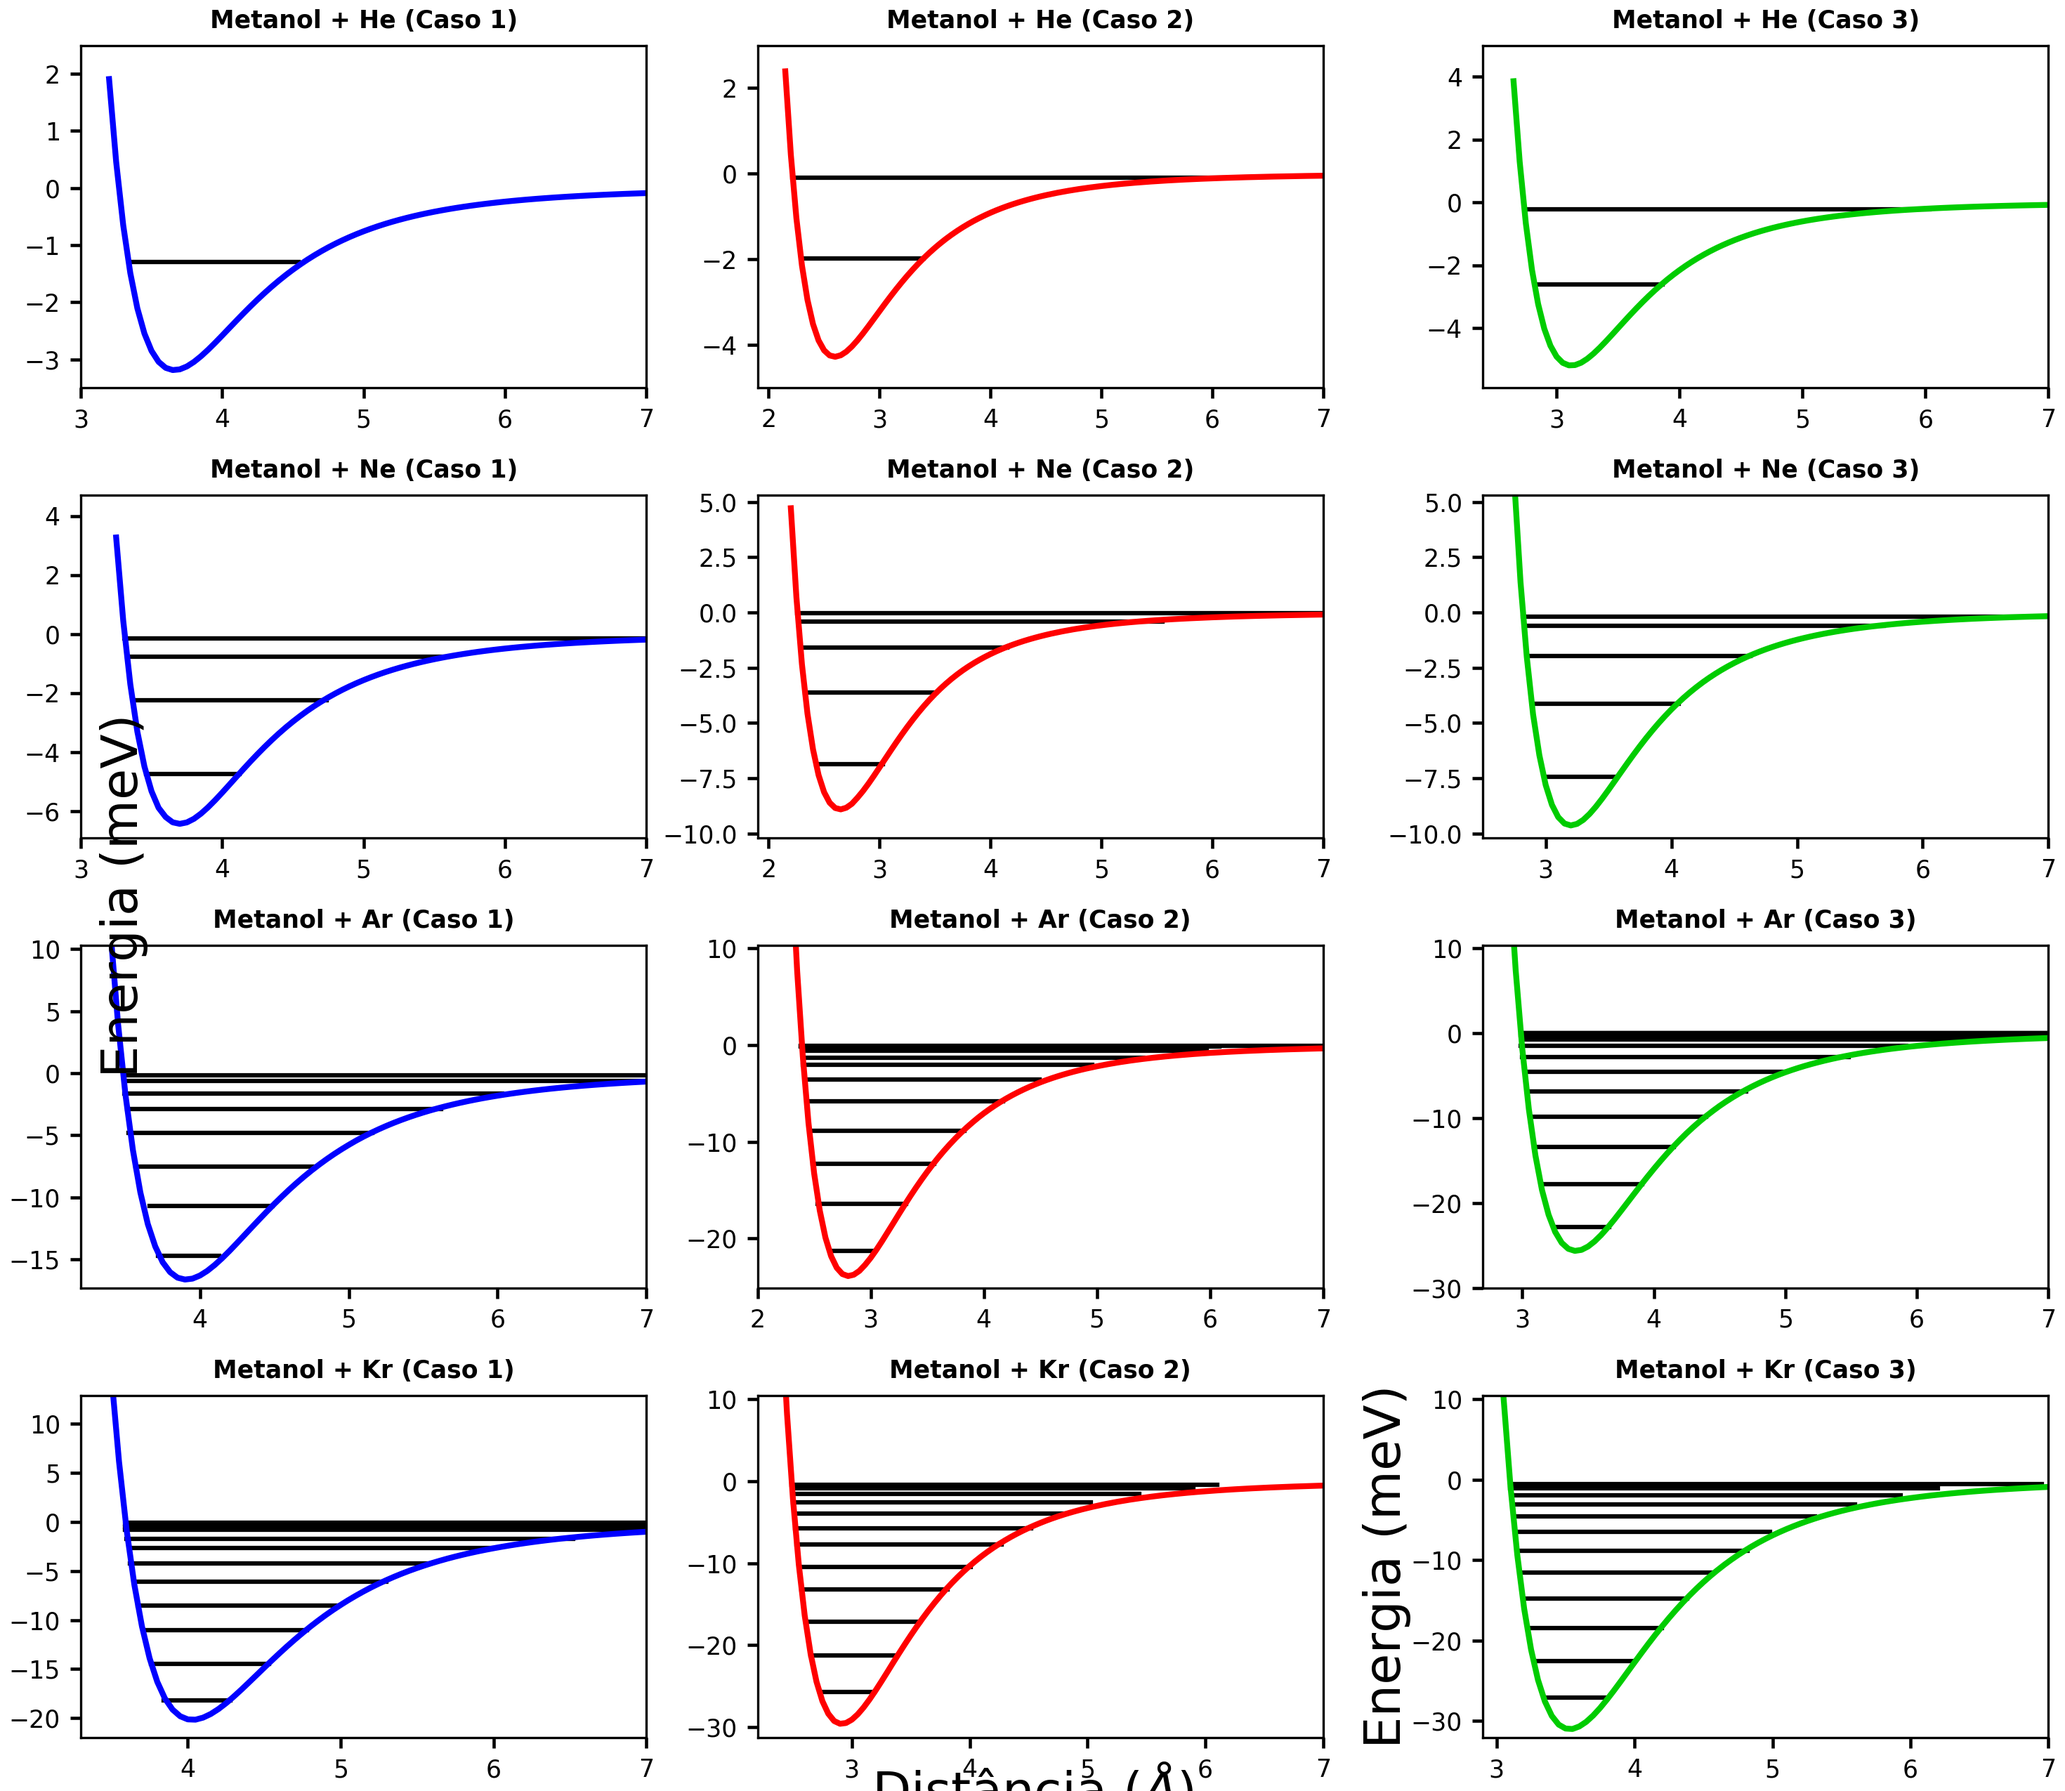
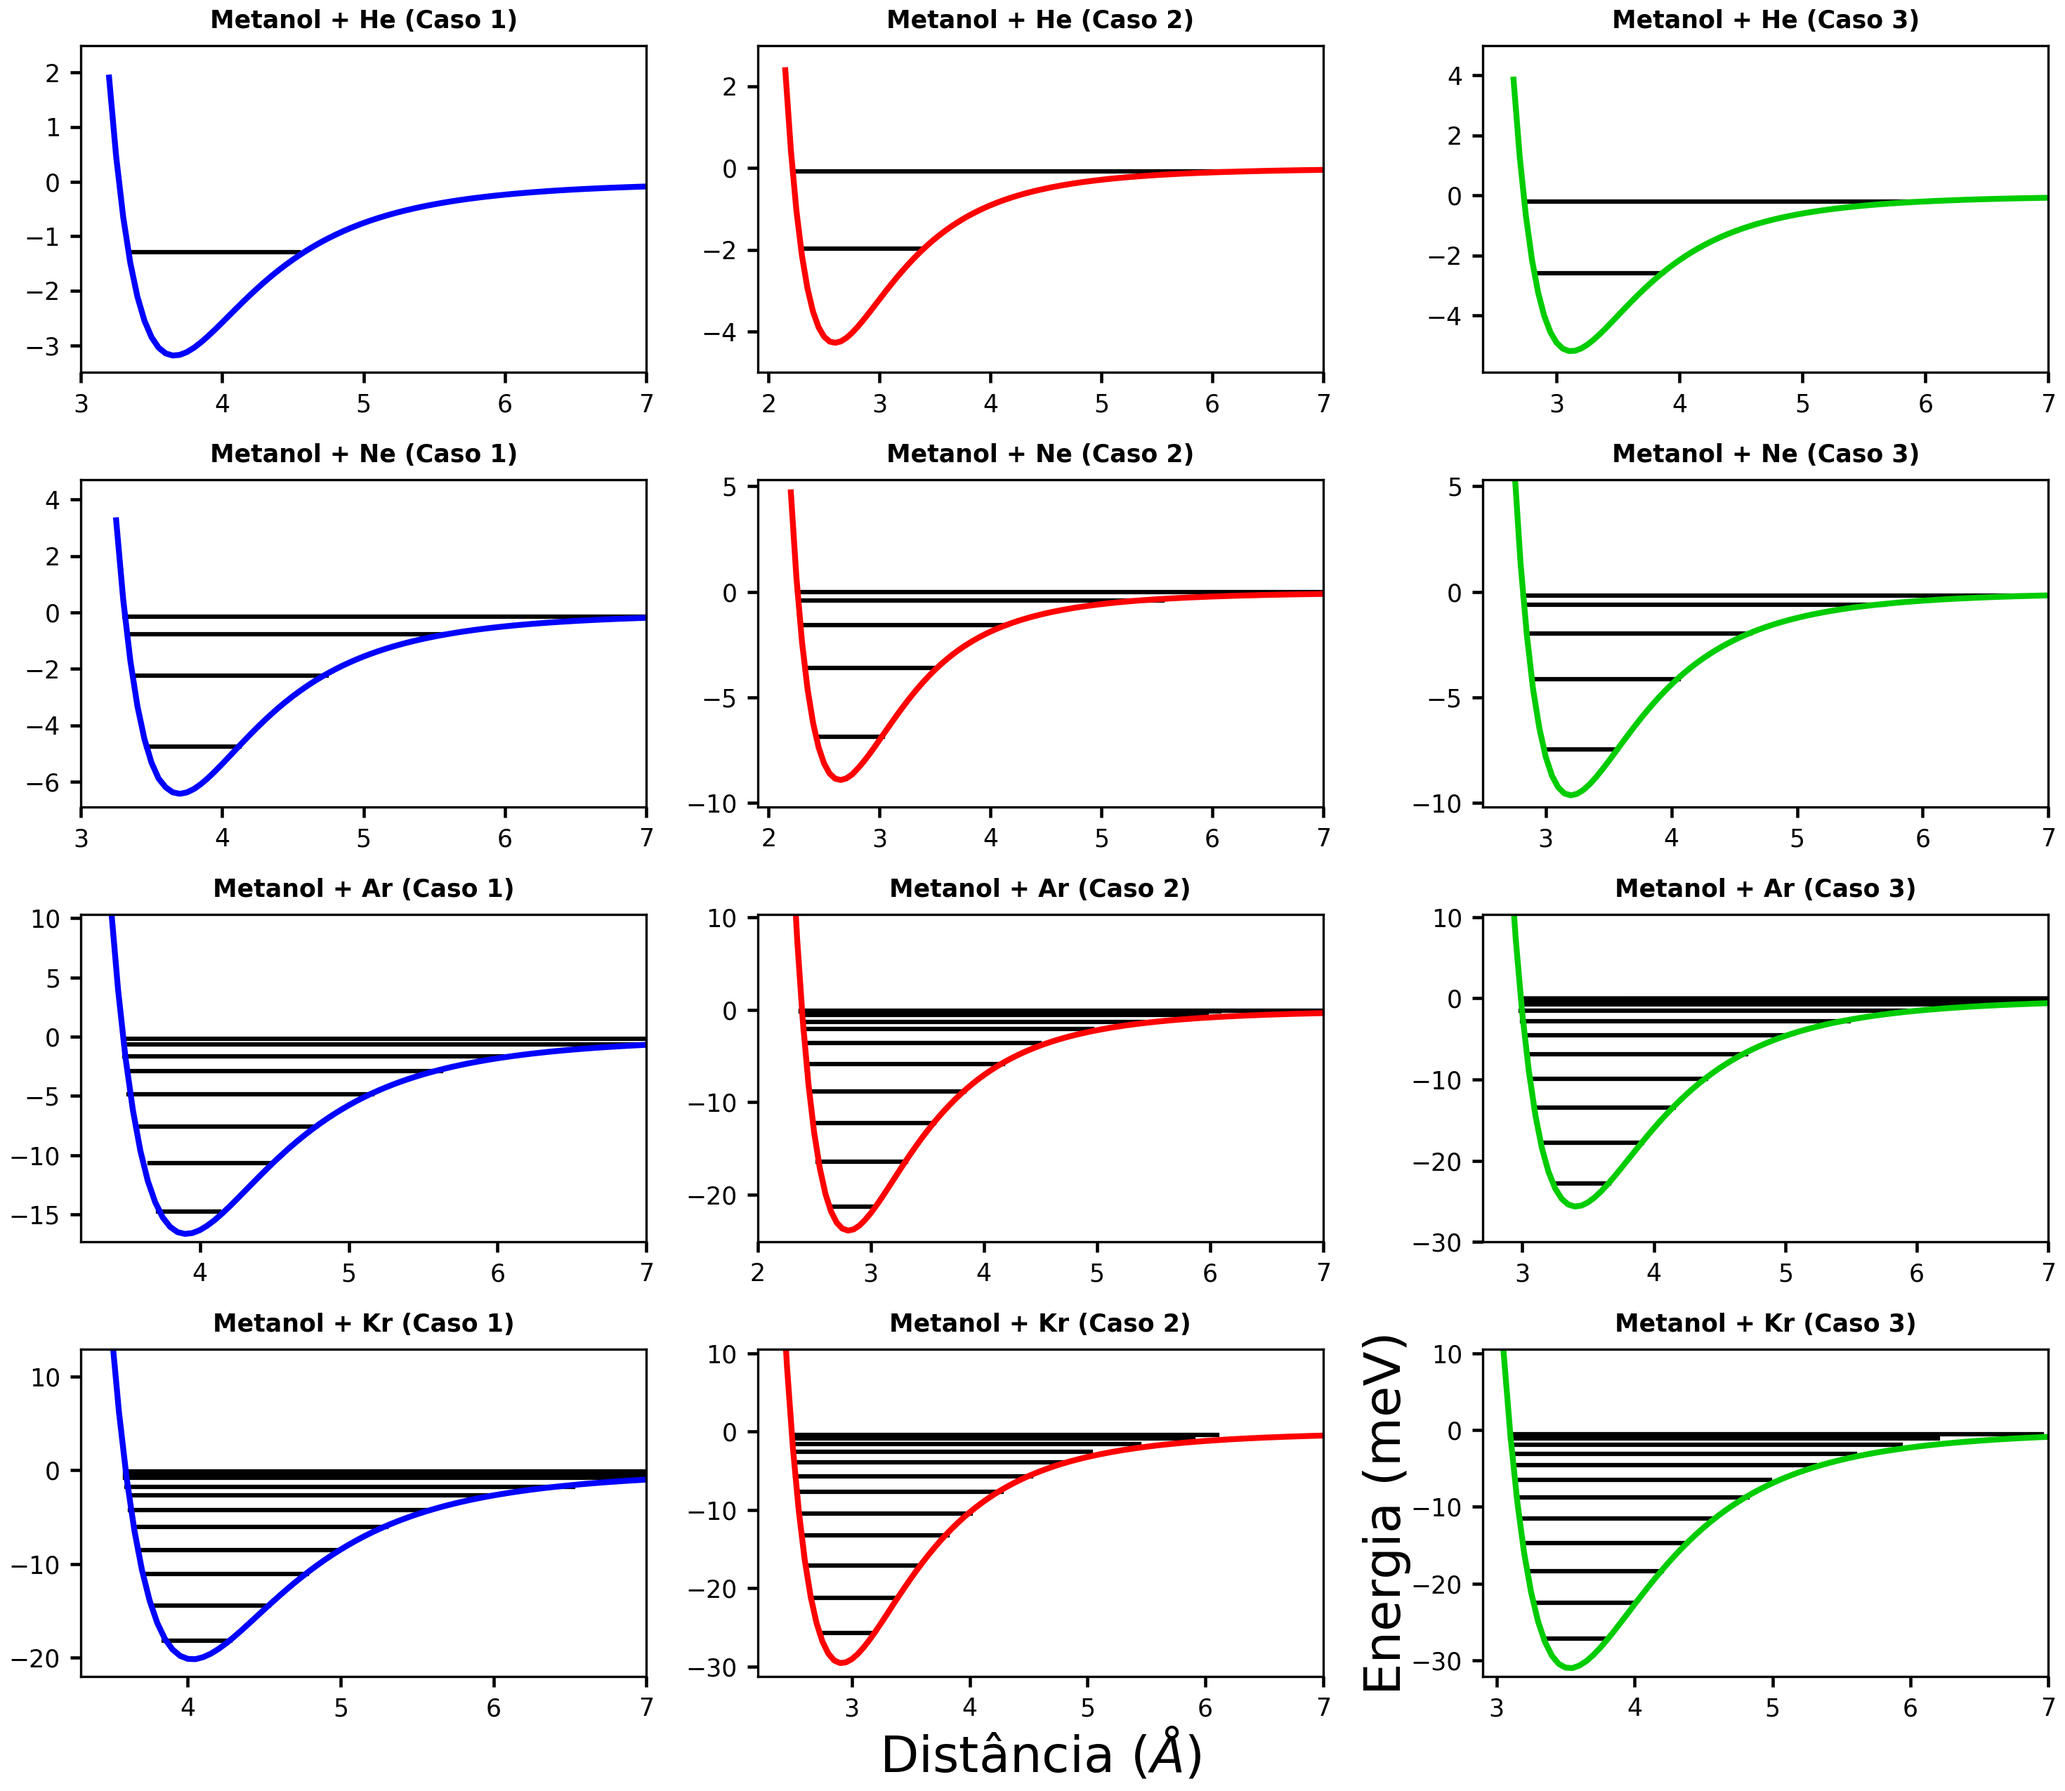
Adicionando seaborn

diff --git a/multiplos_plots_rydberg6/graf7.py b/multiplos_plots_rydberg6/graf7.py
@@ -1,7 +1,7 @@
 import matplotlib.pyplot as plt
 import matplotlib as mpl
 import numpy as np
-#import seaborn as sns
+import seaborn as sns
 
 dados = np.loadtxt('He_c1.dat')
 x = dados[:, 0]
@@ -428,7 +428,7 @@ vib_y_Kr_c3_v11 = dados_Kr_vib_c3_v11[:, 1]
 # ****** Fim Caso 3
 
 
-#sns.set(style="ticks")
+sns.set(style="ticks")
 
 fig, ax = plt.subplots(4, 3, figsize=(9.9, 8.6))
 
